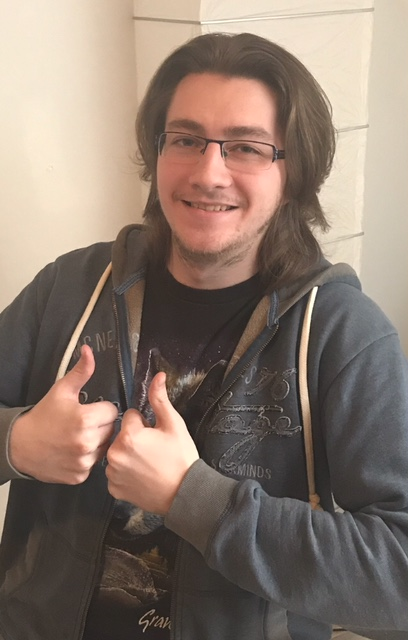
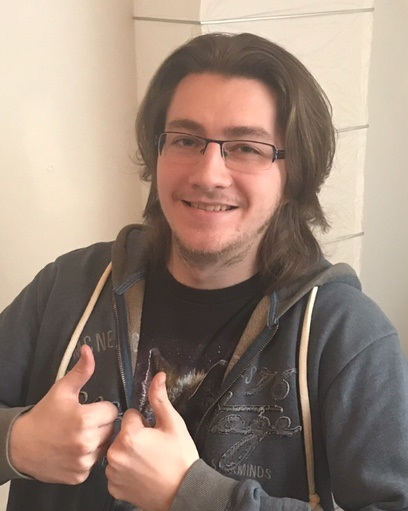
modifies photos, fixs backgrounds on single page

diff --git a/member-Pascal.html b/member-Pascal.html
@@ -44,6 +44,10 @@
 		<p> &#x260F; +43-676-714-7237</p>
 	</div>
 </footer>
+<span id="member1"></span>
+<span id="member2"></span>
+<span id="member3"></span>
+<span id="member4"></span>
 <script type="text/javascript" src="script.js"></script>
 </body>
 </html>

diff --git a/index.html b/index.html
@@ -42,7 +42,7 @@
 					<div>Mahtab</div>
 				</div>
 				<div class="flexCon member">
-					<img id="member4" src="img/Ibrahim.jpg">
+					<img id="member4" src="img/Faisal-real.png">
 					<div>Ibrahimi</div>
 				</div>
 			</div>

diff --git a/style.css b/style.css
@@ -144,6 +144,7 @@ main .member{
 	letter-spacing: 2px;
 	width: 35%;
 	min-width: 140px;
+	height:20%;
 }
 .member img{
 	width: 100%;
